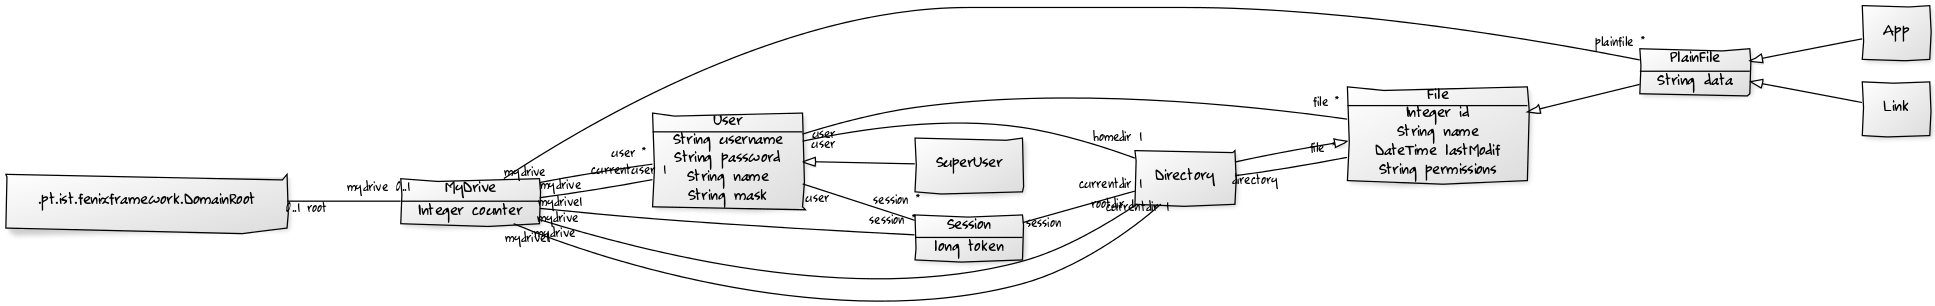
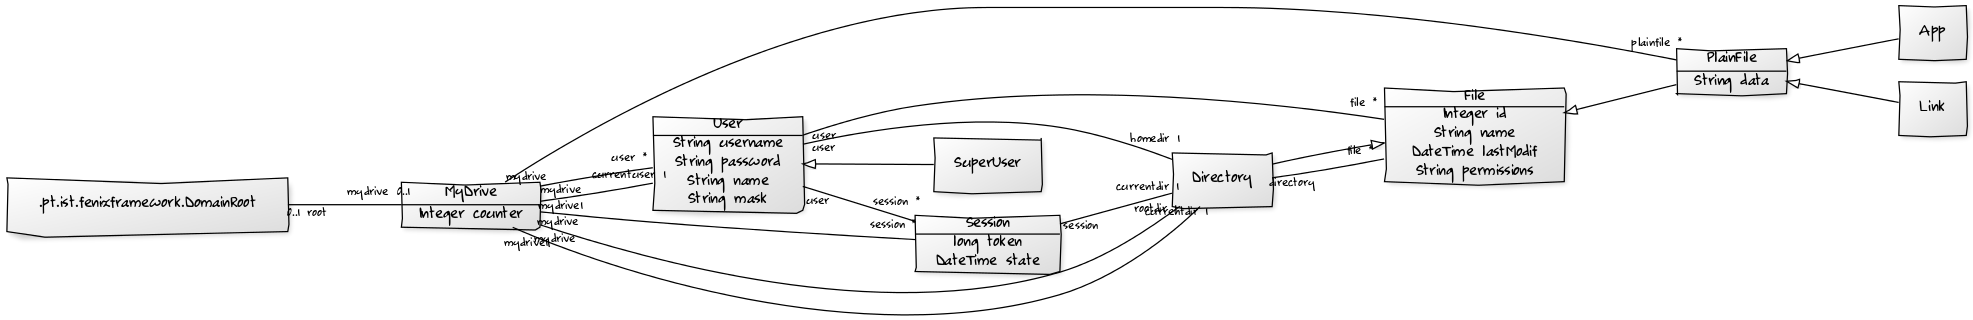
Update LoginUserService

diff --git a/src/main/java/pt/tecnico/MyDrive/MyDriveApplication.java b/src/main/java/pt/tecnico/MyDrive/MyDriveApplication.java
@@ -3,7 +3,6 @@ package pt.tecnico.MyDrive;
 import java.io.File;
 import java.io.IOException;
 import java.io.PrintStream;
-import java.util.Iterator;
 import java.util.Scanner;
 
 import org.jdom2.Document;
@@ -14,11 +13,23 @@ import org.jdom2.output.XMLOutputter;
 
 import pt.ist.fenixframework.Atomic;
 import pt.ist.fenixframework.FenixFramework;
-import pt.tecnico.MyDrive.Exception.*;
-
-
-
-import pt.tecnico.MyDrive.domain.*;
+import pt.tecnico.MyDrive.Exception.DirectoryDoesNotExistException;
+import pt.tecnico.MyDrive.Exception.DirectoryIsNotEmptyException;
+import pt.tecnico.MyDrive.Exception.ExportXmlException;
+import pt.tecnico.MyDrive.Exception.FileDoesNotExistException;
+import pt.tecnico.MyDrive.Exception.FileIsDirectoryException;
+import pt.tecnico.MyDrive.Exception.FileIsPlainFileException;
+import pt.tecnico.MyDrive.Exception.ImportXmlException;
+import pt.tecnico.MyDrive.Exception.InvalidStringException;
+import pt.tecnico.MyDrive.Exception.InvalidTypeException;
+import pt.tecnico.MyDrive.Exception.SessionDoesNotExistException;
+import pt.tecnico.MyDrive.Exception.UserDoesNotHavePermissionsException;
+import pt.tecnico.MyDrive.Exception.UsernameAlreadyExistsException;
+import pt.tecnico.MyDrive.domain.Directory;
+import pt.tecnico.MyDrive.domain.MyDrive;
+import pt.tecnico.MyDrive.domain.PlainFile;
+import pt.tecnico.MyDrive.domain.Session;
+import pt.tecnico.MyDrive.domain.User;
 
 
 
@@ -42,17 +53,6 @@ public class MyDriveApplication {
 			xmlPrint();
 			 */
 		} finally { FenixFramework.shutdown(); }
-	}
-
-
-	@Atomic
-	public static long login(String username, String pass) throws UsernameDoesNotExistException , InvalidPasswordException{
-		MyDrive md = MyDrive.getInstance();	
-		//try{
-		Session session = new Session(md, username, pass);
-		return session.getToken();
-		//}catch(UsernameDoesNotExistException | InvalidPasswordException e) {System.err.println(e);}
-		//return 0;
 	}
 
 
@@ -265,21 +265,26 @@ public class MyDriveApplication {
 
 		MyDrive md = MyDrive.getInstance();
 
-		long p =login("root","***");
-		Session s = getSessionByToken(p);
-		Directory d = s.getCurrentdir();
-		User u = s.getUser();
-		Directory dir = new Directory(7, "joao","rwxd--x-" );
-		d.addFile(dir);
-		//String path = changeCurrentDirectory("/home", p);
-		//System.out.println(path);
-		PlainFile file = new PlainFile(md.getCnt(), "test","rwxdr-test", "Hello World!");
-		d.addFile(file);
-		u.addFile(file);
-		ReadFile("test",p);
-		WriteFile("test",p,"HI !!!!!!!");
-		ReadFile("test",p);
-		createFile(p, "joao", "Directory", null);
+//		long p =login("root","***");
+//		Session s = getSessionByToken(p);
+//		Directory d = s.getCurrentdir();
+//		User u = s.getUser();
+//		Directory dir = new Directory(7, "joao","rwxd--x-" );
+//		d.addFile(dir);
+//		//String path = changeCurrentDirectory("/home", p);
+//		//System.out.println(path);
+//		PlainFile file = new PlainFile(md.getCnt(), "test","rwxdr-test", "Hello World!");
+//		d.addFile(file);
+//		u.addFile(file);
+//		ReadFile("test",p);
+//		WriteFile("test",p,"HI !!!!!!!");
+//		ReadFile("test",p);
+//		createFile(p, "joao", "Directory", null);
+		//long p =login("root","***");
+		//Session s = getSessionByToken(p);
+		//Directory d = s.getCurrentdir();
+		
+		
 		//Directory dir = new Directory(7, "joao","rwxd--x-" );
 		//d.addFile(dir);
 		//String path = changeCurrentDirectory("/joao", p);

diff --git a/src/main/java/pt/tecnico/MyDrive/domain/Session.java b/src/main/java/pt/tecnico/MyDrive/domain/Session.java
@@ -3,19 +3,37 @@ package pt.tecnico.MyDrive.domain;
 import java.math.BigInteger;
 import java.util.Random;
 
+import org.joda.time.DateTime;
+import org.joda.time.Period;
+
 public class Session extends Session_Base {
 
 	public Session(MyDrive md, String username, String password) {
 		super();
 		setToken(new BigInteger(64, new Random()).longValue());
-			User user = md.getUserByUsername(username);
-			if(user.checkPassword(password)){
-				//criar timer de 2 horas
-				user.addSession(this);
-				setCurrentdir(user.getHomedir());
-				md.addSession(this);
-			}
+		User user = md.getUserByUsername(username);
+		if(user.checkPassword(password)){
+			//criar timer de 2 horas
+			updateSessions();
+			user.addSession(this);
+			setCurrentdir(user.getHomedir());
+			DateTime time = new DateTime();
+			setState(time);
+			md.addSession(this);
+		}
+
 	}
+
+	public void updateSessions(){
+		Period period ;
+		DateTime now = new DateTime();
+		MyDrive md = getMydrive();
+		for(Session s : md.getSessionSet()){
+			period= new Period(s.getState(), now);
+			if(period.getHours()>=2){md.removeSession(s);}
+		}
+	}
+
 }
 
 

diff --git a/src/main/java/pt/tecnico/MyDrive/service/LoginUserService.java b/src/main/java/pt/tecnico/MyDrive/service/LoginUserService.java
@@ -1,0 +1,28 @@
+package pt.tecnico.MyDrive.service;
+
+import pt.tecnico.MyDrive.Exception.MyDriveException;
+import pt.tecnico.MyDrive.domain.MyDrive;
+import pt.tecnico.MyDrive.domain.Session;
+
+public class LoginUserService extends MyDriveService{
+
+	private String username;
+	private String password;
+	private long token;
+
+	public LoginUserService(String username, String password) {
+		this.username=username;
+		this.password=password;
+	}
+
+	@Override
+	protected void dispatch() throws MyDriveException {
+		MyDrive md = MyDrive.getInstance();	
+		Session s = new Session(md, username, password);
+		token = s.getToken();
+	}
+	
+	 public final long result() {
+	        return token;
+	    }
+}
